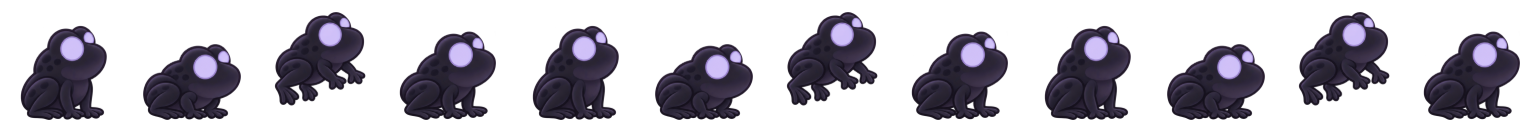
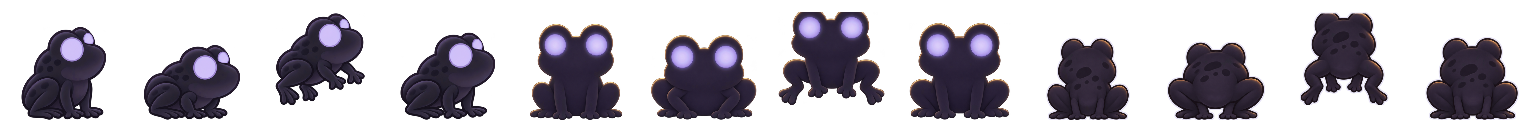
캐릭터 스프라이트: 개구리 앞·뒤 16장 연결 + 빛을 잃은 뒷모습 외곽 빛 수정본(고슴도치·레서판다)
- art-src/enemies/frog-dark|true.walk_000_front_f01~04 · walk_180_back_f01~04 → frog-dark·frog-true 칸 4~7·8~11(옆 대신 실제 그림, 코드 변경 없음)
- 고슴도치·레서판다 빛을 잃은 뒷모습 4장씩 라벤더 외곽 빛 수정본으로 교체(ChatGPT 13:33~13:36)
- 두 모습 맞춤 높이·발끝·가운데 ±7px 안, 판 위 앞모습·뒷모습·구출 순간 제자리 교체 확인, 콘솔 오류 0
- npm run assets가 다르게 구운 관계없는 시트는 되돌리고 바뀐 시트 넷과 manifest만
- 통과한 팩 원본(reference/Lost_Pack) 함께, README_claude·CLAUDE.md·NIGHT_RUN·스킬 visual-audio·결정 기록

Claude-Session: https://claude.ai/code/session_01HrPbr5mJU6i3pPUacduwos

diff --git a/CLAUDE.md b/CLAUDE.md
@@ -91,7 +91,7 @@
 - **테스트**(홈): 고르기 창 = 트라이얼(루미·토리·도토 칸, 잠긴 친구도 — 그 판에서만) + 튜토리얼 + '밤 n 체험'(1·3·6·9·10, 그 밤의 평균 빛 레벨 ★1·6·8·9·10으로 시작 — 밤 10은 토리·도토를 구한 것으로 쳐 노월 확정, 테스트 판에만, 맵 고르기). 테스트 판은 진행·지난 밤들에 남지 않는다.
 - **HUD**: 위 = 달·"밤 {n} · mm:ss"·진행 바·점수(런 누적)·콤보·★레벨·✦별가루. 아래 = 하트·HP·LP('HP'·'LP' 글자)·광원 HP·켠 등불 수·일시정지. 17:9보다 좁은 가로는 판을 바닥 가운데·스틱을 위로, 폰 가로는 스틱을 안쪽으로. 화면 밖 적 = 라벤더 화살표, 꺼진 등불·위험·빛을 잃은 친구 = 노란 화살표. 판 위(2026-11-24): 맞은 적 발밑 **빛 게이지**(호스틸·잃어버린 주민만, HP가 남을 때 1.2초, 받은 빛만큼 호박빛이 차오름 — `game.json enemyGauge`) · 하트 1 + HP ≤ 50%면 루미 발밑 **위험 링**(EMBER 숨쉬기, 무적 중 끔 — `dangerRing`) · 주인공 머리 위 HP는 두지 않음.
 - **아트**: "어두운 밤, 따뜻한 빛" — 남색 + 호박빛, 작은 동물들의 밤 마을(어두운 겹·켜진 겹을 빛 마스크로). 공간감 기준 「달빛 숲의 등불지기 고양이」(`reference/ChatGPT-Images/`). 분위기 참고 Stray·OneShot, Cult of the Lamb 2.5D, Undertale 자비, 브롤스타즈 조작·맵.
-- **그림 규칙**: 실제 그림 = ChatGPT, 그때까지 Claude 임시 코드 그림(`src/art/*` → `npm run assets`), ChatGPT 그림이 오면 같은 키로 교체. **받은 것(2026-11-24 ChatGPT, 각 팩 `README_claude.md`)**: 행렬 패시브 셋 — 올빼미(걷기 옆·앞·뒤 각 4, 6칸/초) · 나방·반딧불이(나는 종: 날갯짓 옆 4, 8칸/초, 몸 가운데 앵커), 웅크림 = 정면 한 장 전 방향 공용·뒤집지 않음, 도망 = 옆 2장 가로 부호로 뒤집기(올빼미·반딧불이 8 · 나방 6칸/초) — `art-src/enemies/<id>.*`·`<id>-cower`·`<id>-flee` · 노월 두 모습(`witch`·`witch-angry` 0~3 대기·4~5 시전·6 진정 공용, 진정 순간 부활 빛기둥 한 번) · UI 아이콘 v3(`public/ui-icons/`, `src/ui/v3Icons.ts` — HUD ✦·★ 선, 아침 요약·상점은 산 것만 채움 `-on`, 두 길 점은 선만) · 2-B 아침 배경(세로·가로, cover — '집으로' 결과도 같은 하늘)·새 지역 카드 B·C·이야기 카드 2·4(`art-src/backgrounds/`) · 2-C 호스틸 셋 — 박쥐(두 모습 — 돌아갈 때 `bat-true`로 제자리 교체, 몸을 돌리지 않고 가로로만 뒤집음)·웨어울프(앞·뒤 ±2px 출렁임)·뱀파이어(칸 96, 받은 그림의 몸 자리를 Claude가 눈 기준으로 옮긴 사본) · 중앙 광원(밝음·낮음·꺼짐 = 칸 0·1·2) · 등불 스테이션(켜짐·약함·꺼짐, 바닥 = 기준점) · 스폰 아이템 아이콘 5종(바닥·HUD·선택 화면 같은 그림) · 잃어버린 주민 셋 두 모습(옆 셋 · 앞·뒤는 고슴도치·레서판다 — 개구리 앞·뒤는 f01 수정본까지 옆으로 대신) — 2-C 팩은 `ArtSpec.register: 'canvas'`(캔버스 앵커 그대로). 홍보 키 비주얼 `reference/Key_Visual_v3/`는 게임에 넣지 않음. 아직 임시(코드 그림 = 폴백, 오는 대로 교체): 개구리 앞·뒤(f01 수정본 대기)·격자 소품·바닥(연결 중)·강·다리(수정본 대기)·이야기 카드 1·3·5·6. 연결 지시는 `docs/plan/order-art-connect-26-1124.md`에 쌓임. **쓰러짐 = 잠듦**(2026-11-24): X 눈 칸 쓰지 않음, 잠든 모습 = ChatGPT `reference/Sleep_Pack/`(11-24 도착, `src/art/sleepSheet.ts`가 8방향 시트와 같은 축척으로 — 루미·도토는 쓰러진 방향대로 뒤집기, 토리는 안 뒤집음, 그림이 없으면 대기 그림을 눕혀 흐리게), **'z' 같은 글자는 띄우지 않는다**(라이언). 그림 마감 없음(8절 마감 지침). v3 브리프 이름 ↔ 게임 자리 = `NIGHT_RUN.md` 13절 끝.
+- **그림 규칙**: 실제 그림 = ChatGPT, 그때까지 Claude 임시 코드 그림(`src/art/*` → `npm run assets`), ChatGPT 그림이 오면 같은 키로 교체. **받은 것(2026-11-24 ChatGPT, 각 팩 `README_claude.md`)**: 행렬 패시브 셋 — 올빼미(걷기 옆·앞·뒤 각 4, 6칸/초) · 나방·반딧불이(나는 종: 날갯짓 옆 4, 8칸/초, 몸 가운데 앵커), 웅크림 = 정면 한 장 전 방향 공용·뒤집지 않음, 도망 = 옆 2장 가로 부호로 뒤집기(올빼미·반딧불이 8 · 나방 6칸/초) — `art-src/enemies/<id>.*`·`<id>-cower`·`<id>-flee` · 노월 두 모습(`witch`·`witch-angry` 0~3 대기·4~5 시전·6 진정 공용, 진정 순간 부활 빛기둥 한 번) · UI 아이콘 v3(`public/ui-icons/`, `src/ui/v3Icons.ts` — HUD ✦·★ 선, 아침 요약·상점은 산 것만 채움 `-on`, 두 길 점은 선만) · 2-B 아침 배경(세로·가로, cover — '집으로' 결과도 같은 하늘)·새 지역 카드 B·C·이야기 카드 2·4(`art-src/backgrounds/`) · 2-C 호스틸 셋 — 박쥐(두 모습 — 돌아갈 때 `bat-true`로 제자리 교체, 몸을 돌리지 않고 가로로만 뒤집음)·웨어울프(앞·뒤 ±2px 출렁임)·뱀파이어(칸 96, 받은 그림의 몸 자리를 Claude가 눈 기준으로 옮긴 사본) · 중앙 광원(밝음·낮음·꺼짐 = 칸 0·1·2) · 등불 스테이션(켜짐·약함·꺼짐, 바닥 = 기준점) · 스폰 아이템 아이콘 5종(바닥·HUD·선택 화면 같은 그림) · 잃어버린 주민 셋 두 모습(옆·앞·뒤 모두 — 개구리 앞·뒤 11-24 15:4x, 빛을 잃은 뒷모습은 라벤더 외곽 빛 수정본) — 2-C 팩은 `ArtSpec.register: 'canvas'`(캔버스 앵커 그대로). 홍보 키 비주얼 `reference/Key_Visual_v3/`는 게임에 넣지 않음. 아직 임시(코드 그림 = 폴백, 오는 대로 교체): 토리 앞모습(0°) 걷기(임시 깡충 — ChatGPT 재의뢰 11-24 15:07)·격자 소품·바닥(연결 중)·강·다리(통과, 연결 중)·이야기 카드 1·3·5·6(만들지 않음 — 일괄 지시서). 연결 지시는 `docs/plan/order-art-connect-26-1124.md`에 쌓임. **쓰러짐 = 잠듦**(2026-11-24): X 눈 칸 쓰지 않음, 잠든 모습 = ChatGPT `reference/Sleep_Pack/`(11-24 도착, `src/art/sleepSheet.ts`가 8방향 시트와 같은 축척으로 — 루미·도토는 쓰러진 방향대로 뒤집기, 토리는 안 뒤집음, 그림이 없으면 대기 그림을 눕혀 흐리게), **'z' 같은 글자는 띄우지 않는다**(라이언). 그림 마감 없음(8절 마감 지침). v3 브리프 이름 ↔ 게임 자리 = `NIGHT_RUN.md` 13절 끝.
 - **둥근 버튼·배지 규칙**: 남색 유리 원(#34396C → #14152E) + 얇은 밝은 테두리 + 굵고 끝이 둥근 선 아이콘(연한 종이색), 켜짐 = 호박 사탕 채움 + 남색 아이콘, 놓으면 부드럽게 제자리(cubic-bezier(0.16, 1, 0.3, 1)). 기준 `.pull-refresh`·`refreshIcon`·`.icon-button`. 알약 버튼(주요 = 호박, 보조 = 어두운 유리), 최소 48px.
 - **팔레트**: NIGHT `#1B1F3B` · DUSK `#2A2F5A` · PREDAWN `#120F24` · DAWN `#F2B880` · AMBER `#FFC857` · MINT `#9ED9B5` · LAVENDER `#A89CD9` · EMBER `#FF8C5A` · PAPER `#F6F1E7` · ASH `#8A8FA8`. 폰트 Pretendard → Noto Sans KR.
 - **늘 어두운 화면**: `color-scheme: only dark`(+ index.html meta) — 브라우저·기기 야간 모드가 색을 바꾸지 않게(2026-11-20). **설정 창**: 낮은 가로(휴대폰)는 위 한 줄에 제목·닫기, 아래는 PC처럼 두 칸(넘치면 위아래로, 글자 px 최소값 16 — 폭 640 아래는 한 칸). 모든 화면에서 배경음악·효과음 슬라이더 왼쪽 끝을 맞추고(글자 칸 5em), 닉네임 칸·버튼은 칸 폭을 넘지 않는다(2026-11-21).

diff --git a/docs/skill/light-defense-game/references/visual-audio.md b/docs/skill/light-defense-game/references/visual-audio.md
@@ -93,7 +93,7 @@
   - 노월은 대기·시전·진정 모습이 있다.
 - 퇴장: 잃어버린 주민은 제 모습으로 중앙 광원 쪽으로 뛰어가며 사라진다. 호스틸은 빛 반대쪽으로 날아가 사라진다.
 - 패시브는 위협적이지 않게, 빛을 피하는 몸짓을 한다.
-- 아직 Claude의 임시 코드 그림(2026-11-24 주민 앞·뒤 연결 뒤): 개구리 앞·뒤(옆 4장으로 대신 — f01 수정본 대기)·격자 맵 소품·바닥(연결 중)·강·다리, 이야기 카드 1·3·5·6(초상·도형 구성). 고슴도치·레서판다는 옆·앞·뒤 모두 ChatGPT 그림.
+- 아직 Claude의 임시 코드 그림(2026-11-24 개구리 앞·뒤 연결 뒤): 토리 앞모습(0°) 걷기(임시 깡충 — ChatGPT 재의뢰 중)·격자 맵 소품·바닥(연결 중)·강·다리, 이야기 카드 1·3·5·6(초상·도형 구성, 만들지 않음). 잃어버린 주민 셋(개구리·고슴도치·레서판다)은 옆·앞·뒤 모두 ChatGPT 그림, 빛을 잃은 뒷모습은 라벤더 외곽 빛이 든 수정본.
 - 잃어버린 주민 셋(개구리·고슴도치·레서판다) 옆모습 두 모습은 2026-11-24 ChatGPT 그림(`reference/Lost_Pack/`) — 캔버스 앵커 그대로(개구리 공중 칸이 땅에 붙지 않게), 제 모습은 빛을 잃은 모습 축척(구출 순간 제자리 교체). 코드 그림은 폴백으로 남긴다(그림 일괄 지시서 — 그림 마감 없음, 오는 대로 교체).
 - ChatGPT 그림 적용(2026-11-24 그림 연결, 각 팩 `README_claude.md`): 웨어울프(옆·앞·뒤 걷기 각 4, 8칸/초, 앞·뒤 걷는 동안 ±2px 출렁임) · 박쥐 두 모습(날갯짓 옆 4, 몸 가운데 앵커, 빛을 받아 돌아갈 때 되돌아온 모습으로 제자리 교체) · 중앙 광원(밝음·낮음·꺼짐 3칸, 광도 4단계는 둘레 빛 크기) · 뱀파이어(날갯짓 옆 4, 칸 96, 받은 그림의 몸 자리를 눈 기준으로 옮긴 사본) · 등불 스테이션(켜짐·약함·꺼짐, 바닥 = 기준점) · 스폰 아이템 아이콘 5종(남색 굵은 선 + 제 색, 바닥·HUD·선택 화면 같은 그림). 2-C 팩은 `ArtSpec.register: 'canvas'`로 캔버스 앵커를 그대로 지킨다.
 - ChatGPT 그림 적용(2026-11-24, 각 팩 `README_claude.md`): 나방·반딧불이(나는 종 — 날갯짓 옆 4장 8칸/초·몸 가운데 앵커·가로 부호로 뒤집기, 웅크림 정면 공용, 도망 2장 나방 6·반딧불이 8칸/초, 칸 64·48px) · 노월(시트 `witch`·`witch-angry` 0~3 대기·4~5 시전·6 진정 공용, 진정 순간은 말풍선 + 부활 빛기둥 한 번) · UI 아이콘 v3(`public/ui-icons/`, HUD ✦·★ 선, 아침 요약·상점은 산 것만 채움, 두 길 점 선만) · 올빼미(행렬 패시브) · 2-B 아침 배경(`morning`·`morning-wide`, cover) · 새 지역 카드(`region-border`·`region-dark`) · 이야기 카드 2·4(`story-02-source`·`story-04-voices`, 16:9 — 글 자리 그대로). 홍보 키 비주얼 `reference/Key_Visual_v3/`는 게임에 넣지 않음 — 걷기 옆·앞·뒤 각 4장(옆은 오른쪽, 왼쪽은 뒤집기) · 웅크림 정면 1장(전 방향 공용, 뒤집지 않음, 겁먹은 눈) · 도망 옆 2장(가로 부호로 뒤집기, 8칸/초). 칸 72px·몸 약 58px.

diff --git a/docs/DECISION_LOG.md b/docs/DECISION_LOG.md
@@ -224,3 +224,4 @@
 - 2026-11-24 · 14:10 구조 보강 ①(라이언 확정): 아침 '집으로' = 이번 나들이 별가루 +20%(올림·최소 1, `game.json dust.homeBonusRatio 0.2·homeBonusMin 1`, 광원이 잠든 런은 보너스 없음·벌 없음), 버튼 "집으로 (별가루 +20%)", 집으로 결과 "무사히 돌아왔어요 · 별가루 +{n}"(요약 별가루 칸에 더함), 아침 다음 밤 미리 보기 "다음 밤: {구간} · 등불 {n} · 적이 조금 더 거세요 / 오늘과 비슷해요"(구출 배율 없이 비교 — 구출 밤은 밝히지 않음, `systems/morningPreview.ts`).
 - 2026-11-24 · 15:03 기획 세션(라이언 확정): 주인공 머리 위 HP 넣지 않음 — 대신 마지막 하트 위험 링(하트 1 + HP ≤ 50%, 루미 발밑 EMBER 링 반지름 34·선 2px·불투명도 0.35~0.7 1.2초 숨쉬기, 쓰러짐·무적 중 끔, `game.json dangerRing`, `scenes/play/DangerRing.ts`).
 - 2026-11-24 · 15:03 적 빛 게이지(라이언 확정): 호스틸·잃어버린 주민만(패시브·노월·어둠 구슬 제외), 빛에 맞아 HP가 남을 때 발밑에 36×4 둥근 막대가 1.2초 + 0.3초 페이드, 채움 = 1 − HP/maxHP(차오름, 숫자 없음), 바탕 NIGHT 0.6 · 채움 AMBER (`game.json enemyGauge`, `systems/lightGauge.ts`·`entities/enemies/LightGauge.ts`). 정한 세부(제안): 나는 종의 발밑 = 땅 그림자 자리 + 6(그림 칸 절반은 투명 여백까지 들어가 몸에서 떨어져 보였음), 게이지 갱신은 `EnemyField.step`이 모든 적에(기다리는 친구·행렬은 step을 일찍 끝냄), 막대는 적 컨테이너 밖 월드에(박쥐 코드 그림이 몸을 돌려도 눕지 않게). 배포판 줄인 Phaser에는 `Phaser.GameObjects.Events`가 없어 destroy 이벤트는 문자열로.
+- 2026-11-24 · 캐릭터 스프라이트: 개구리 앞·뒤 16장(빛을 잃은·제 모습 × 앞·뒤 × 4, f01 수정본 — 기획 세션 통과) 연결 → `frog-dark`·`frog-true` 칸 4~7·8~11(코드 변경 없음, poseFallback 대신 실제 그림), 빛을 잃은 뒷모습 라벤더 외곽 빛 수정본(고슴도치·레서판다 각 4장, 개구리는 16장에 포함) 교체. 두 모습 맞춤 ±7px 안, 판 위 앞·뒤·구출 순간 확인, 콘솔 오류 0.

diff --git a/reference/Lost_Pack/README_claude.md b/reference/Lost_Pack/README_claude.md
@@ -16,6 +16,6 @@ ChatGPT 2-C 1-2절 → 기획 세션 통과(`docs/plan/order-art-connect-26-1124
 | `hedgehog_lost_walk_090_right_…` / `hedgehog_walk_090_right_…` | `hedgehog-dark.…` / `hedgehog-true.…` | 0~3(옆) | 64 · 발끝 |
 | `redpanda_lost_walk_090_right_…` / `redpanda_walk_090_right_…` | `redpanda-dark.…` / `redpanda-true.…` | 0~3(옆) | 72 · 발끝 |
 
-- **앞·뒤**(2026-11-24 기획 세션 13:14 통과): 고슴도치·레서판다 앞·뒤 32장 → `art-src/enemies/<id>-dark|true.walk_000_front_f01~04`·`walk_180_back_f01~04` → 칸 4~7·8~11(발끝 494~495, 가운데 254~258). **개구리 앞·뒤는 옆 4장으로 대신**(`poseFallback`) — f01 네 장(떨어진 조각, 발 427·441)의 ChatGPT 수정본이 오면 f01~f04를 함께 넣는다(한 방향의 네 장이 다 있어야 그 방향 그림을 씀). 캡처 `sketches/lost-precheck-26-1124-1048/frontback-front.png`·`frontback-back.png`.
+- **앞·뒤**(2026-11-24 기획 세션 13:14 통과): 고슴도치·레서판다 앞·뒤 32장 → `art-src/enemies/<id>-dark|true.walk_000_front_f01~04`·`walk_180_back_f01~04` → 칸 4~7·8~11(발끝 494~495, 가운데 254~258). ~~개구리 앞·뒤는 옆 4장으로 대신~~ → **2026-11-24 15:4x 개구리 앞·뒤 16장 연결**(f01 수정본 — 떨어진 조각 없음, 발끝 495~496·공중 칸 f03 436~437, 가운데 254~261, 두 모습 높이 차 ≤ 6) → 칸 4~7·8~11. 같은 때 **빛을 잃은 뒷모습 외곽 빛**(라벤더 `#A89CD9` 테두리, ChatGPT 13:33~13:36) 고슴도치·레서판다 각 4장도 교체(개구리는 16장에 포함) — 높이 +4~6(테두리), 발끝·가운데 그대로. 판 위 확인 `sketches/lost-frontback-26-1124-1545/` (앞모습·뒷모습·구출 순간 제자리 교체). 캡처 `sketches/lost-precheck-26-1124-1048/frontback-front.png`·`frontback-back.png`.
 - **캔버스 앵커 그대로**(`register: 'canvas'`): 개구리는 이것이 없으면 공중 칸(f03)이 땅에 붙어 폴짝이 사라진다. 제 모습은 빛을 잃은 모습 축척을 빌림(구출 순간 제자리 교체).
 - 받은 팩 파일은 손대지 않음. 코드 그림(`src/art/enemies.ts`·`creatures.ts`)은 폴백.

diff --git a/reference/Lost_Pack/frog/README.md b/reference/Lost_Pack/frog/README.md
@@ -20,5 +20,5 @@ Files:
 - frog_lost_walk_180_back_f01.png through frog_lost_walk_180_back_f04.png
 
 ### 2026-11-24 correction
-- Cleaned the four front/rear f01 sprites: removed two detached sheet fragments per image, matched the f04 standing scale, centered x=256, and aligned the feet to y=496. The character design was preserved.
+- Cleaned the four front/rear f01 sprites: removed two detached sheet fragments per image, matched the f04 standing scale, centered at x=256 and aligned the feet to y=496. The character design was preserved.
 - Added a restrained #A89CD9 outer rim to all four lost-form rear frames.
